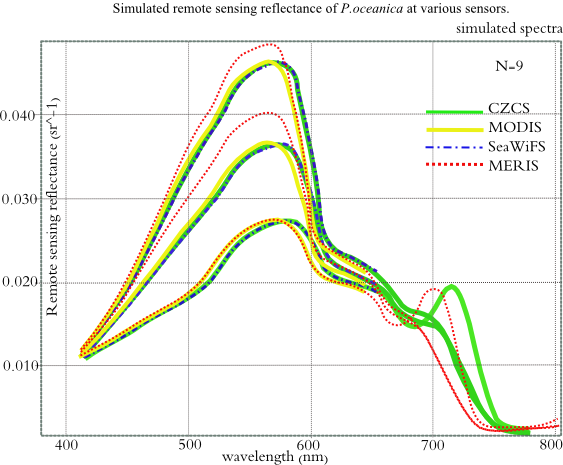
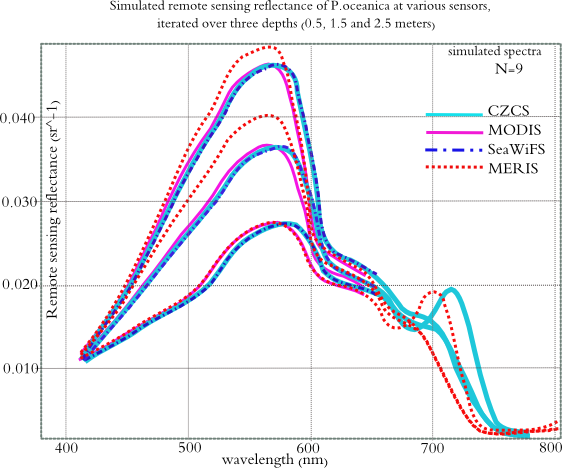
Comment 14 of Valentijn: Fig.4.5: variable iterated over: depth

diff --git a/MScDiplom_Lemenkova.tex b/MScDiplom_Lemenkova.tex
@@ -1470,7 +1470,7 @@ remote sensing sensors (\ac{MODIS}, \ac{ASTER}, \ac{MERIS} and \ac{SeaWiFS}), (F
 \begin{wrapfigure}{r}{0.5\textwidth}
 	\centering
 	\includegraphics[scale=0.45]{Sensors.png}
-	\caption{Combined plots of simulated remote sensing reflectance of \textit{P.oceanica} at various sensors: MODIS, MERIS, SeaWiFS and CZCS.}
+	\caption{Combined plots of simulated remote sensing reflectance of \textit{P.oceanica} at various sensors: MODIS, MERIS, SeaWiFS and CZCS, iterated over three depths.}
 	\label{fig:4.6}
 \end{wrapfigure}
 
